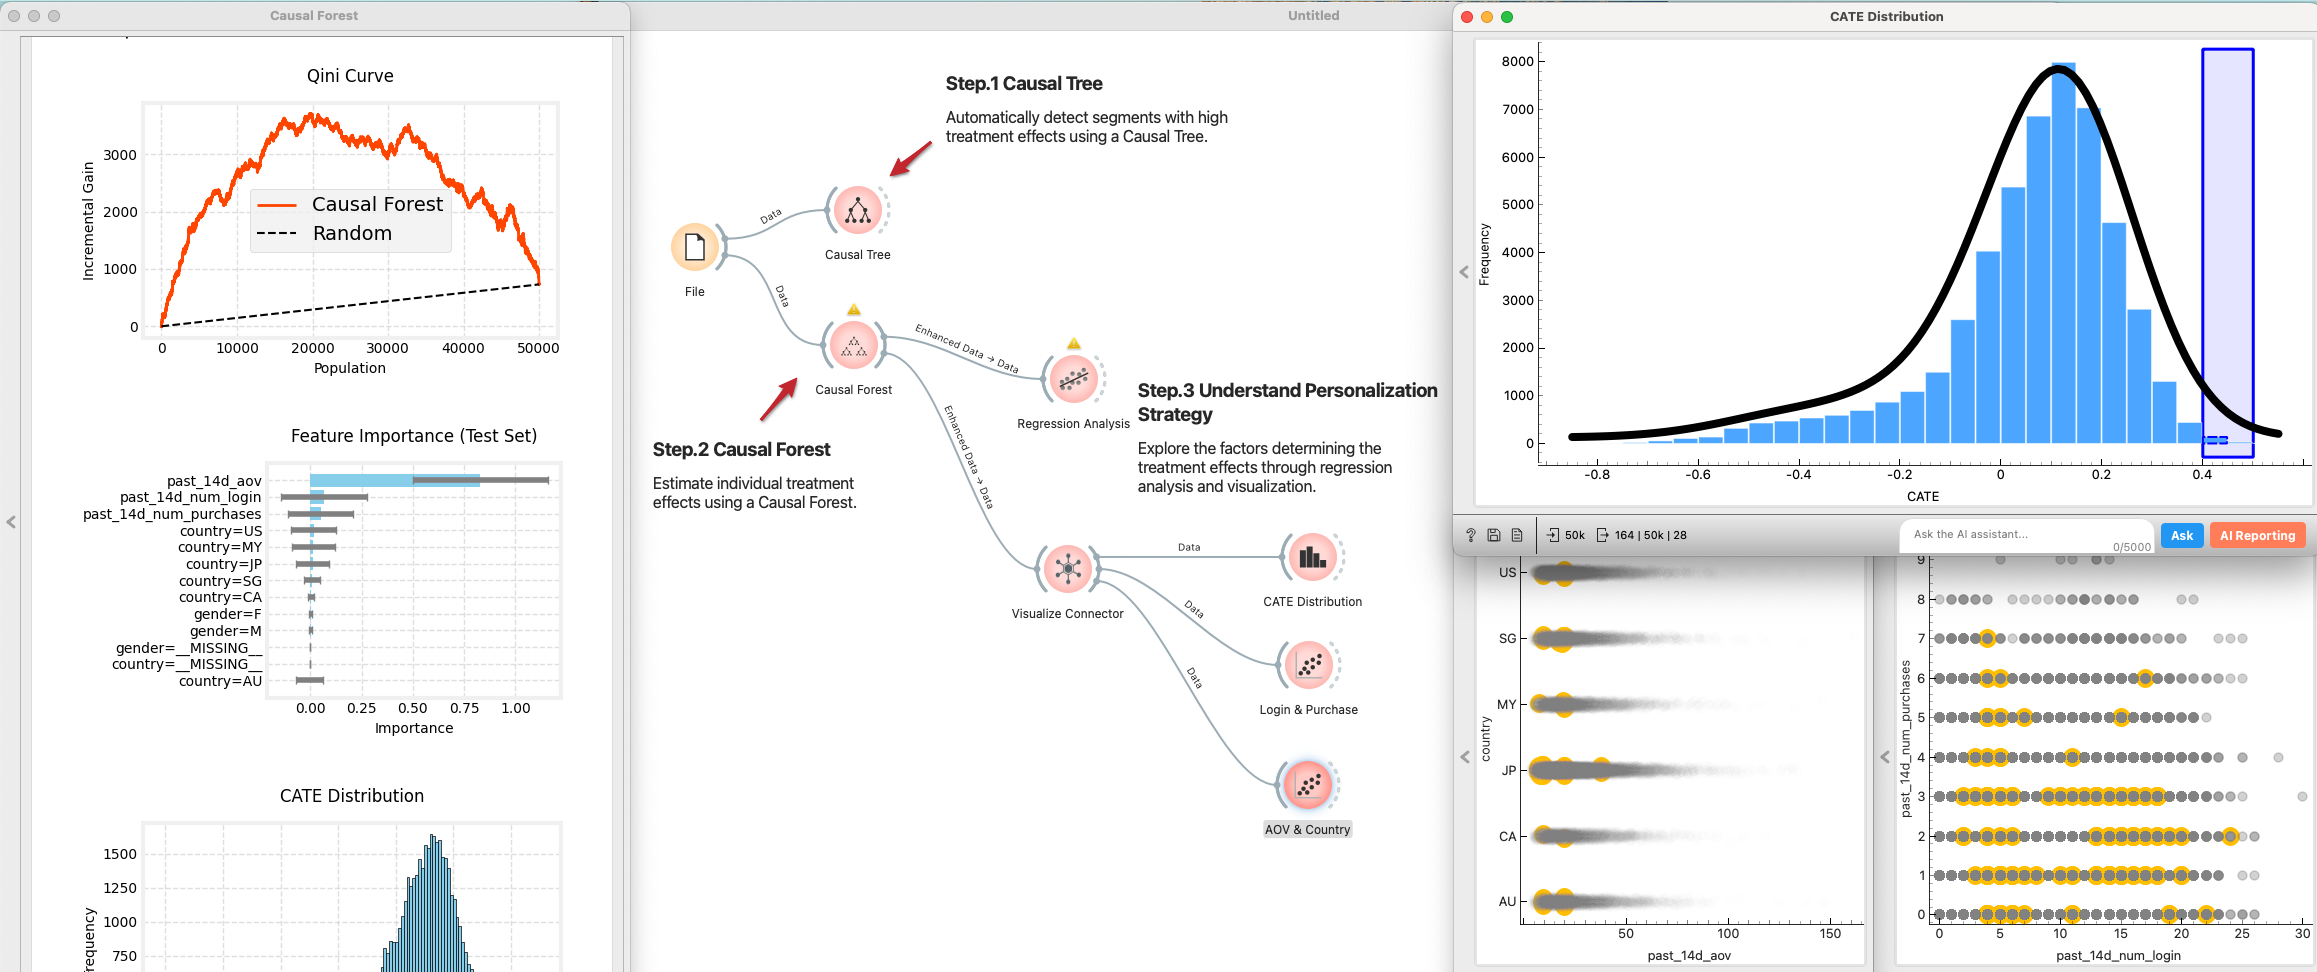
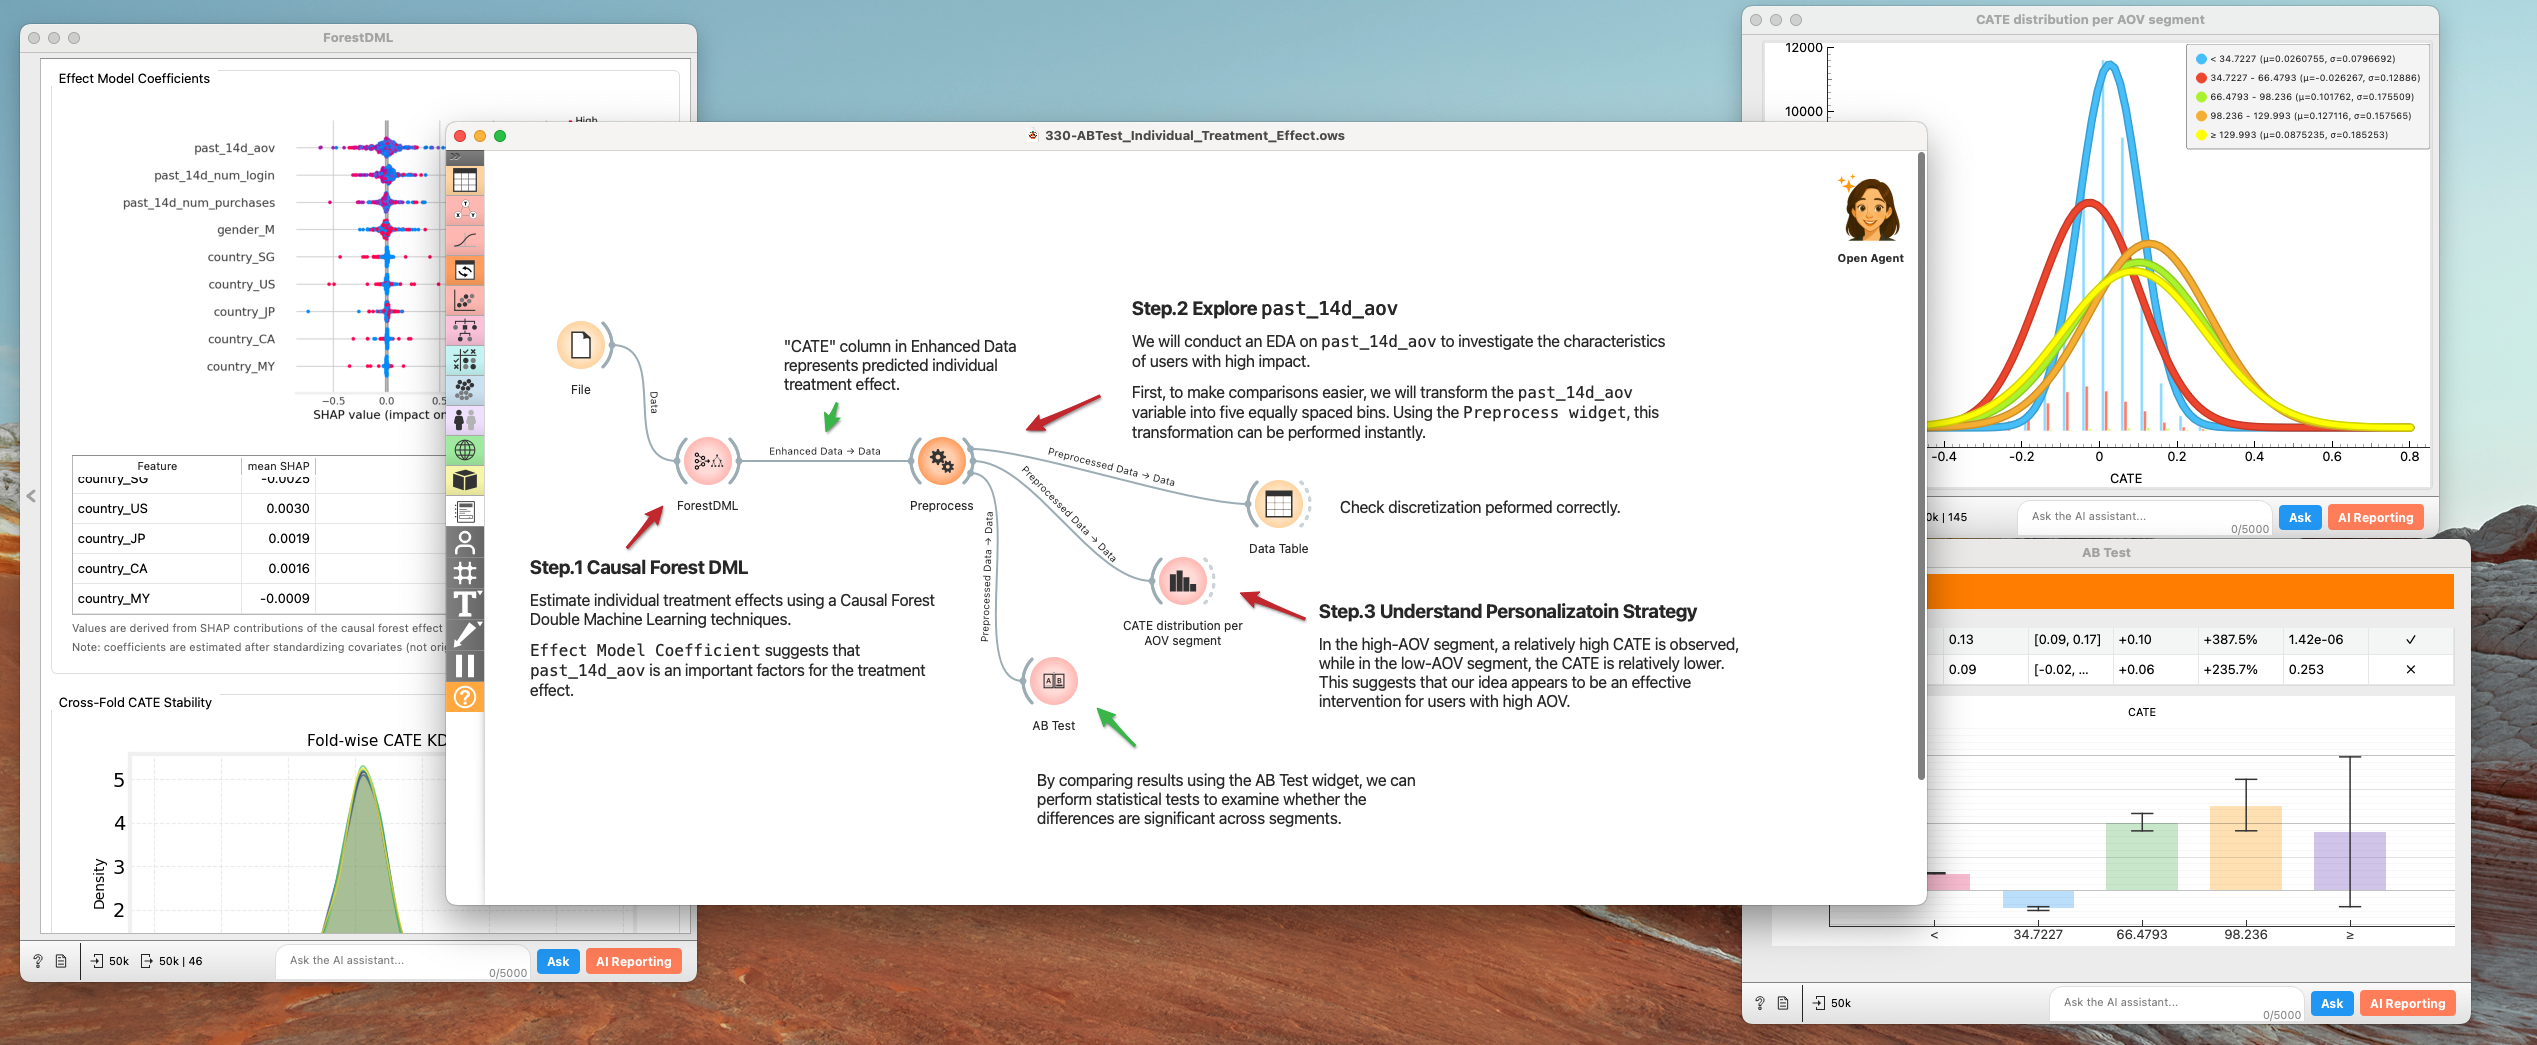
tutorial updates

diff --git a/web-docs/docs/tutorial-advanced/AB_Test_Result_Analysis.md b/web-docs/docs/tutorial-advanced/AB_Test_Result_Analysis.md
@@ -30,6 +30,17 @@ This tutorial walks through a full experiment analysis in Allye. You will:
 - Segment users via stratification and clustering to find heterogeneous effects.
 - Use causal inference (Causal Tree and Causal Forest) to predict individual treatment effects (ITE or CATE: conditional average treatment effect) and explore drivers.
 
+Note: You can find following workflow files in Template Workflows
+
+<p>
+  <img
+    src={require('./img/ABTest_templateworkflows.png').default}
+    alt="ABTest_templateworkflows"
+    style={{ maxHeight: '80vh', width: '100%', objectFit: 'contain' }}
+  />
+</p>
+
+
 
 ### 1. A/A Test (randomization check) & A/B Test (hypothesis testing)
 
@@ -97,7 +108,7 @@ _If the average effect is zero, but the p-value is dropping, it’s possible tha
   - Send **Unmatched Data → AB Test** for the inactive segment.
 3. Compare effect sizes and p-values across segments.
 
-#### Clustering
+#### Clustering (optional)
 _If you don't have a clear hypothesis, let Clustering find the segments._
 
 1. `File → Select Columns` to choose clustering features (e.g., past logins, purchases).
@@ -106,24 +117,25 @@ _If you don't have a clear hypothesis, let Clustering find the segments._
 4. `k-Means → Select Rows (Cluster#1) → AB Test` to estimate effects per cluster. Repeat for other clusters.
 5. Summarize which clusters respond positively and which do not.
 
-### 4. Causal inference for CATEs
+### 4. Causal inference for CATE estimate
 
 _We now know the effect varies by user. Instead of manually guessing segments, let's use Causal AI to predict the exact Treatment Effect (CATE) for every single user. Use these prediction results to gain a deeper understanding of your supporters’ personas._
 
 <p>
   <img
     src={require('./img/adv_tutorial_causalforest.png').default}
-    alt="Causal Forest for CATE"
+    alt="Causal Forest DML for CATE"
     style={{ maxHeight: '80vh', width: '100%', objectFit: 'contain' }}
   />
 </p>
 
-1. **Causal Tree**: `File → Causal Tree`. The tree surfaces segments with high/low treatment effects automatically. Use splits to learn which attributes best separate responders and non-responders.
-2. **Causal Forest**: `File → Causal Forest`. This estimates an CATE for each user. Send **Enhanced Data → Distributions** to visualize the CATE distribution and to `Regression Analysis` to relate CATEs to covariates.
-3. Inspect:
-   - Distribution of CATEs (how many users benefit vs. are harmed).
-   - Top features associated with higher CATEs (personalization levers).
-4. Use these insights to target future rollouts (e.g., enable the feature only for high-CATE segments).
+1. **Causal Forest DML**: `File → Forest DML`. `Causal Forest Double Machine Learning` is designed to robustly estimate Conditional Average Treatment Effects (CATE) by combining orthogonalization with a causal forest for heterogeneous treatment effect modeling. _-- Susan Athey "Generalized Random Forests" (2019)_
+2. Inspect:
+   - `Effect Model Coefficient` in the `Forest DML` suggests that `past_14d_aov` is an important factors for the treatment effect. 
+   - Discretize `past_14d_aov` to 5 segments (very high ~ very low). to make comparisons easier. `Preprocess` widget comes in handy.
+3. Understand Personalization Strategy
+  - In the high-AOV segment, a relatively high CATE is observed, while in the low-AOV segment, the CATE is relatively lower. This suggests that our idea appears to be an effective intervention for users with high AOV.
+  - Use these insights to target future rollouts (e.g., enable the feature only for high-CATE segments).
 
 
 
@@ -131,9 +143,9 @@ _We now know the effect varies by user. Instead of manually guessing segments, l
 
 _By moving beyond simple averages, we turned a "failed" experiment into a strategic insight. Here is what we found and what we propose._
 
-#### 1. **The Discovery: A Tool for Activation, Not Efficiency**
-Initial A/B test results showed a flat trend overall. However, through Stratification and Causal Forest analysis, we uncovered a striking contrast:
-  - Inactive & Low-AOV Users: Showed a statistically significant uplift in engagement and conversion.
+#### 1. **The Discovery: Inactive - High AOV Users**
+Initial A/B test results showed a flat trend overall. However, through Stratification and Causal Forest DML analysis, we uncovered a striking contrast:
+  - Inactive & High-AOV Users: Showed a statistically significant uplift in engagement and conversion.
   - Interpretation: For users who are unfamiliar with our product catalog (New Users) or haven't visited in a while (Dormant Users), this feature successfully acts as a "activation engine".
 
 #### 2. **Strategic Proposal: Pivot to "Activation & Reactivation"**
